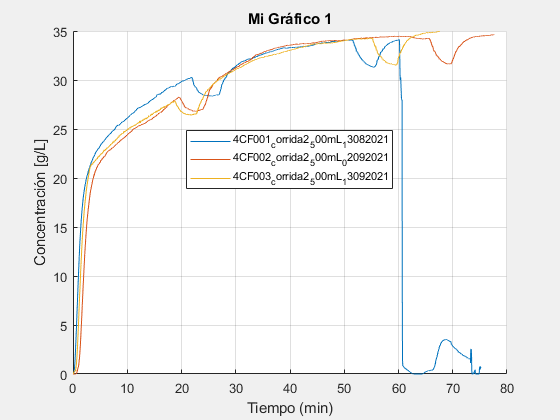
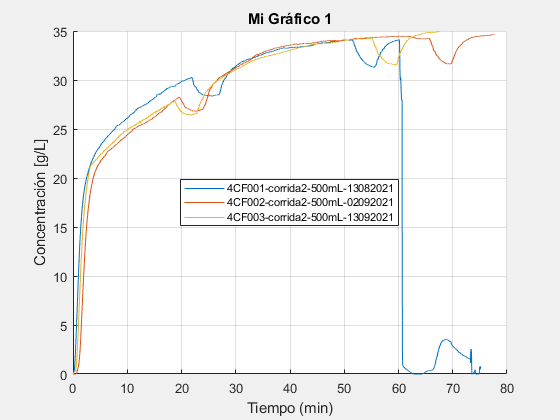
Actualizado README y GettingStarted

diff --git a/README.md b/README.md
@@ -4,6 +4,7 @@
 <!-- ![image_0.png](README_images/image_0.png) -->
 [![View LAIIQAToolbox on File Exchange](https://www.mathworks.com/matlabcentral/images/matlab-file-exchange.svg)](https://la.mathworks.com/matlabcentral/fileexchange/120218-laiiqatoolbox)
 
+
 # Descripción
 
 **Matlab®** **toolbox** para ajustar y graficar los datos de los archivos `.mat` generados del proceso de ozonización en el Laboratorio de Investigación en Ingeniería Química Ambiental (LAIIQA) de ESIQIE - IPN.
@@ -27,7 +28,7 @@ Desde **Matlab**, ir a pestaña  **Home** > **Add-Ons** > **Get Add-Ons**, en el
    -  Programación orientada a objetos.
    -  Grafica datos ajustados (recortados) a una concentración inicial cero (o cercana).
    -  Acceso a propiedades de grafico: titulo, etiquetas de ejes *x* y *y*, legenda, grosor de línea, etc.
-   -  Conversión de datos de tiempo del eje *x* : `seg`, `min`, `h`.
+   -  Conversión de datos de tiempo del eje $x$ : `seg`, `min`, `h`.
    -  Multiselección de archivos para grafcar.
    -  Acceso a variables de datos crudos (`rawdata`) y ajustados (`fixeddata`).
    -  Calculo de consumo de ozono.
@@ -35,11 +36,11 @@ Desde **Matlab**, ir a pestaña  **Home** > **Add-Ons** > **Get Add-Ons**, en el
    -  Guardado de grafico en varios formatos: `png`, `jpg`, `jpeg`, `pdf`, `eps`, `svg`, `tif`, `fig`.
    -  Creación de varios objetos gráficos a la vez.
    -  Delimitación del tiempo total final, $x_f$, para cada linea de datos.
-   -  Posibilidad de ajustar el tiempo total desfazado de la cinética con el multiplicador $xk$.
+   -  Posibilidad de ajustar el tiempo total desfazado de la cinética con el multiplicador $x\cdot k$.
 
 # Propiedades del objeto `laiiqatoolbox`
 
-   -  `rawdata` : Datos "crudos", sin tratamiento, que contiene las filas de tiempo (1/100 $s$)  y concentración de ozono ($g/m^3$) del archivo `.mat`.
+   -  `rawdata` : Datos "crudos", sin tratamiento, que contiene las filas de tiempo (1/100 $seg$)  y concentración de ozono ($g/m^3$) del archivo `.mat`.
    -  `fixeddata` : Datos "ajustados", recortados para quitar los primeros datos de estabilización de la concentración de ozono y para comenzar el ozonograma desde una concentración igual o cercana a cero. Convierte los datos de tiempo a minutos por default.
    -  `title` : Modifica o quita el titulo del gráfico.
    -  `xlabel` : Modifica los datos de tiempo. **Opciones**: `'seg'` | `'min'` | `'h'`.
@@ -71,8 +72,8 @@ Desde **Matlab**, ir a pestaña  **Home** > **Add-Ons** > **Get Add-Ons**, en el
 Inicializamos una instancia de objeto de tipo ***laiiqatoolbox***:
 
 ```matlab:Code
-% clearvars
-% close all
+clearvars
+close all
 clc
 miobjeto1 = laiiqatoolbox
 ```
@@ -85,6 +86,7 @@ miobjeto1 =
             fixeddata: []
                 title: "Cinética de Ozonización"
                xlabel: 'min'
+                   xk: {[1]}
                    xf: {'end'}
                ylabel: "Concentración [g/L]"
                  grid: 'on'
@@ -117,6 +119,7 @@ ans =
             fixeddata: []
                 title: "Cinética de Ozonización"
                xlabel: 'min'
+                   xk: {[1]  [1]  [1]}
                    xf: {'end'  'end'  'end'}
                ylabel: "Concentración [g/L]"
                  grid: 'on'
@@ -151,11 +154,12 @@ ans =
             fixeddata: {[2x450938 double]  [2x466141 double]  [2x405324 double]}
                 title: "Cinética de Ozonización"
                xlabel: 'min'
+                   xk: {[1]  [1]  [1]}
                    xf: {'end'  'end'  'end'}
                ylabel: "Concentración [g/L]"
                  grid: 'on'
             LineWidth: 0.5000
-               legend: {["4CF001_corrida2_500mL_13082021"]  ["4CF002_corrida2_500mL_02092021"]  ["4CF003_corrida2_500mL_13092021"]}
+               legend: {["4CF001-corrida2-500mL-13082021"]  ["4CF002-corrida2-500mL-02092021"]  ["4CF003-corrida2-500mL-13092021"]}
        legendFontSize: 8
        legendLocation: 'best'
       imageResolution: 300
@@ -195,7 +199,9 @@ miobjeto1.plotfiles; % Aplicamos los cambios
 
 ![figure_2.png](README_images/figure_2.png)
 
-Como se observa en el gráfico anterior, los datos de la **Linea 1 **terminan abruptamente después del minuto 60, para quitarlos modificamos el valor de $x_f$ ($x$ final) de la **Linea 1** con la propiedad `xf:`
+## Uso de propiedad `xf`:
+
+Como se observa en el gráfico anterior, los datos de la **Linea 1 **terminan abruptamente después del minuto 60, para acotar los datos hasta el minuto 60 y quitar los demás, modificamos el valor de $x_f$ ($x$ final) de la **Linea 1** con la propiedad `xf:`
 
 ```matlab:Code
 miobjeto1.xlabel = 'min'; % Establecemos las unidades de tiempo
@@ -225,6 +231,23 @@ miobjeto1.plotfiles; % Aplicamos los cambios
 
 ![figure_5.png](README_images/figure_5.png)
 
+## Utilizando el multiplicador de tiempo `xk`:
+
+En ocasiones, cuando una cinética tardó 2 horas en realizarse, en los datos se registra como si hubiera durado 1 hora. Esto se debe a que tanto la señal de la concentración de ozono, como la velocidad de procesamiento de la computadora, llegan a tener un desface de tiempo en el registro de los datos. Para solucionar este fallo, se puede hacer uso de la propiedad `xk`, la cual multiplica los valores de tiempo por el valor deseado.
+
+Para el gráfico anterior, modificaremos la **Línea 2** y **3** para hacerlas coincidir con la caída de concentración de la **Línea 1**
+
+```matlab:Code
+miobjeto1.legend = {'default'}; % Restauramos las leyendas
+miobjeto1.xf = {'end' 'end' 'end'}; % Primero establecemos los valores por default de xf
+miobjeto1.xk = {1 1.15 1.2}; % La linea 1 se queda igual, aumentamos el tiempo de la
+% linea 2 en un 15% y linea 3 un 20%
+miobjeto1.xf = {50 50 50}; % Cortamos los datos de todas las lineas a 50 minutos máximo
+miobjeto1.plotfiles; % Aplicamos los cambios
+```
+
+![figure_6.png](README_images/figure_6.png)
+
 ## Calculo del consumo de ozono
 
 Una vez ejecutados los métodos `openfiles` y `plotfiles` se puede ejecutar el método `ozonecalc`:
@@ -234,20 +257,20 @@ miobjeto1.ozonecalc;
 ```
 
 ```text:Output
-Para Linea 1:
-    Consumido: 0.27064 g/L
-    Residual: 1.775 g/L
-    Total: 2.0456 g/L en 60 min
+Para 4CF001-corrida2-500mL-13082021:
+    Consumido: 0.25763 g/L
+    Residual: 1.4457 g/L
+    Total: 1.7033 g/L en 50 min
 
-Para Linea 2:
-    Consumido: 0.35836 g/L
-    Residual: 2.3315 g/L
-    Total: 2.6899 g/L en 77.69 min
+Para 4CF002-corrida2-500mL-02092021:
+    Consumido: 0.34154 g/L
+    Residual: 1.3459 g/L
+    Total: 1.6875 g/L en 50 min
 
-Para Linea 3:
-    Consumido: 0.29924 g/L
-    Residual: 1.4031 g/L
-    Total: 1.7024 g/L en 50 min
+Para 4CF003-corrida2-500mL-13092021:
+    Consumido: 0.31898 g/L
+    Residual: 1.3468 g/L
+    Total: 1.6658 g/L en 50 min
 ```
 
 ## Exportar imagen del gráfico
@@ -259,15 +282,15 @@ miobjeto1.imageResolution = 600; % Resolución de imagen, default = 300
 miobjeto1.saveplot('ozonograma1.png'); % Nombre y extensión del archivo
 ```
 
-![figure_6.png](README_images/figure_6.png)
+![figure_7.png](README_images/figure_7.png)
 
-Para guardar en formato vectorial (*pdf, eps, svg*) no es necesario modificar la resolución:
+Para guardar en formato vectorial (*pdf*,* eps*,* svg*) no es necesario modificar la resolución:
 
 ```matlab:Code
 miobjeto1.saveplot('ozonograma1.pdf');
 ```
 
-![figure_7.png](README_images/figure_7.png)
+![figure_8.png](README_images/figure_8.png)
 
 ***
 *Generated from GettingStarted.mlx with [Live Script to Markdown Converter](https://github.com/roslovets/Live-Script-to-Markdown-Converter)*
